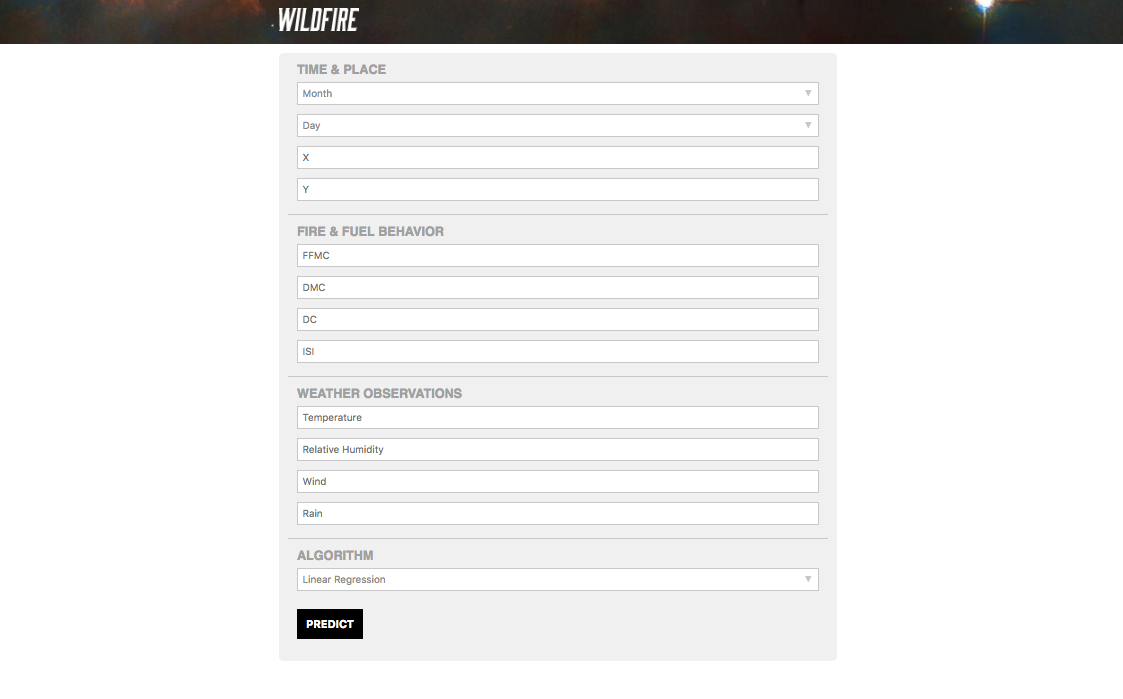
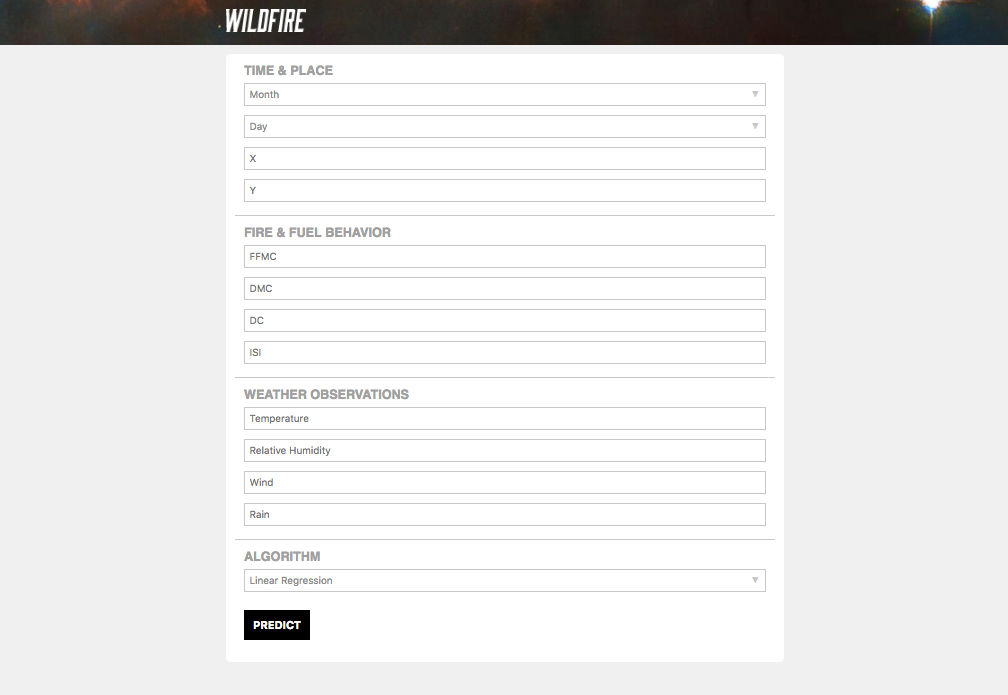
Update app background colors

diff --git a/app/static/app.css b/app/static/app.css
@@ -2,6 +2,7 @@ html, body {
   font-family:sans-serif;
   padding:0;
   margin:0;
+  background:rgb(240,240,240);
 }
 .wrapper {
   max-width:640px;
@@ -53,7 +54,7 @@ p {
 }
 
 form {
-  background:rgb(240,240,240);
+  background:white;
   border-radius:5px;
 }
 .section {
